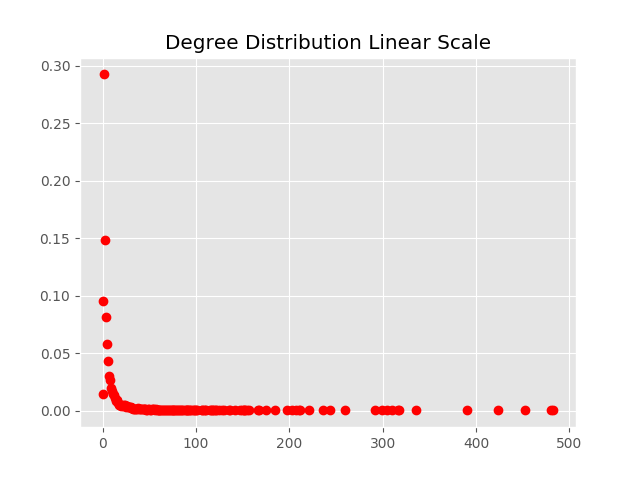
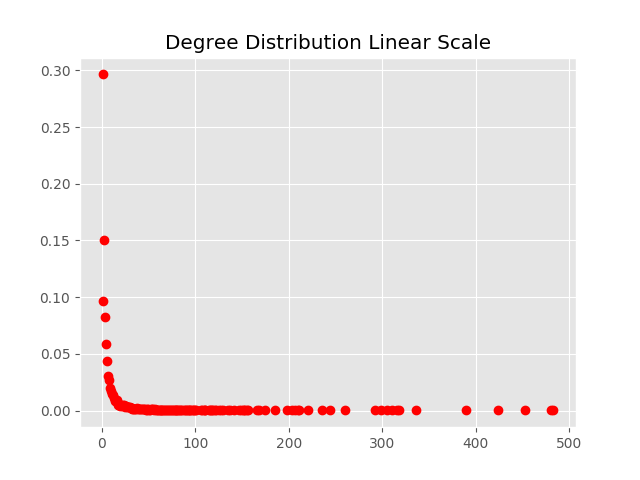
test for lognormal

diff --git a/na_spotify_project/scripts/basic_stats.py b/na_spotify_project/scripts/basic_stats.py
@@ -1,8 +1,8 @@
 import networkx as nx
 import numpy as np
-import os
 import matplotlib.pyplot as plt
-import collections
+import collections, powerlaw, os
+from scipy.stats import linregress
 
 # variables
 
@@ -75,6 +75,14 @@ def degree_distribution_plotter(graph_object):
     axes.set_title("Log-log scale")
     fig.savefig("cum_deg_dist_log.png")
 
+    # plot fit to linear reg on log-log scale
+    x_for_reg = np.arange(len(array_for_log_log_plot))
+    slope, intercept, r_value, p_value, std_error = linregress(np.log10(x_for_reg), np.log10(array_for_log_log_plot))
+    print(f"intercept: \t{intercept}")
+    print(f"slope: \t{slope}")
+    plt.scatter(np.log10(x_for_reg), np.log10(array_for_log_log_plot))
+    
+
 def prune_network(graph_object, min_degree = 1):
     """
     Given graph prunes nodes with less than given degree
@@ -89,9 +97,42 @@ def prune_network(graph_object, min_degree = 1):
 
     for node in nodes_to_prune:
         graph_object.remove_node(node)
+
+    # additionally remove all nodes that have zero degree after this pruning
+    zero_deg_nodes = []
+    for node in graph_object.nodes():
+        if graph_object.degree(node) == 0:
+            zero_deg_nodes.append(node)
+
+    for node in zero_deg_nodes:
+        graph_object.remove_node(node)
+
     return graph_object
+
+def test_deg_dist(graph_object):
+    """
+    Check if powerlaw or ecponential is better fit for our degree distribution
+    Copied from exercise 3
+    """
+    degrees = sorted(dict(graph_object.degree()).values())
+    results = powerlaw.Fit(degrees, discrete = True)
+    R, p = results.distribution_compare('power_law', 'exponential') #R loglikelihood ratio of the two distributions
+
+    if (R > 0) and (p < .05):
+        R, p = results.distribution_compare('power_law', 'lognormal')
+        print(R, p)
+        if p < .05:
+            if R > 0:
+                print(f"Powerlaw hypotheses preferred (p = {p}, CDF exponent = {results.power_law.alpha}")
+            else:
+                print(f"Lognormal hypothesis preferred (p = {p}, mu = {results.lognormal.mu}, sigma = {results.lognormal.sigma})")
+        else:
+            print("Powerlaw and lognormal are indistinguishable.")
+    else:
+        print("We cannot rule out an exponential fit. Definitely not a power law.")
 
 if __name__ == '__main__':
     sp_graph = read_pickle_graph()
     pruned_graph = prune_network(sp_graph)
     degree_distribution_plotter(pruned_graph)
+    test_deg_dist(pruned_graph)
